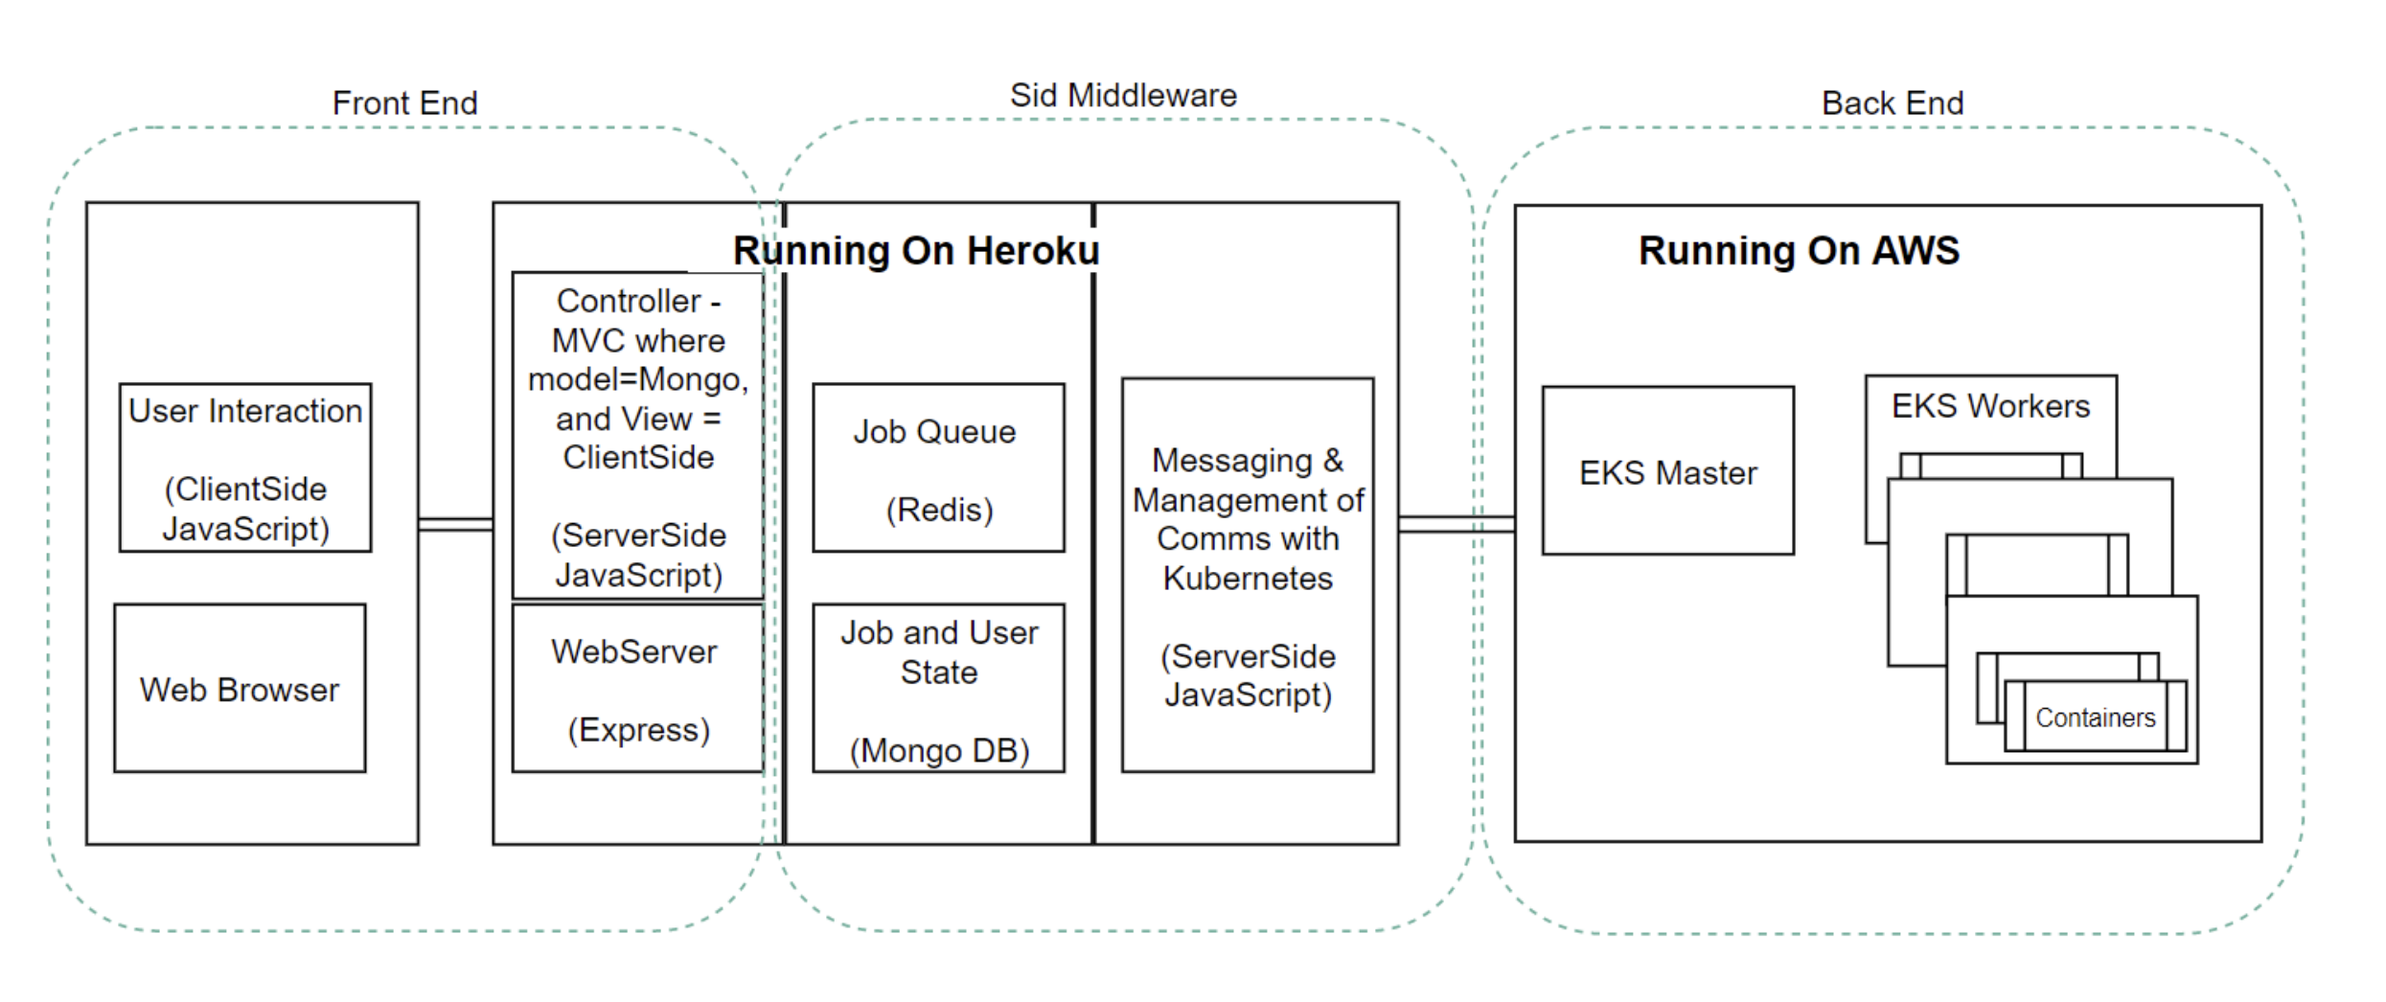
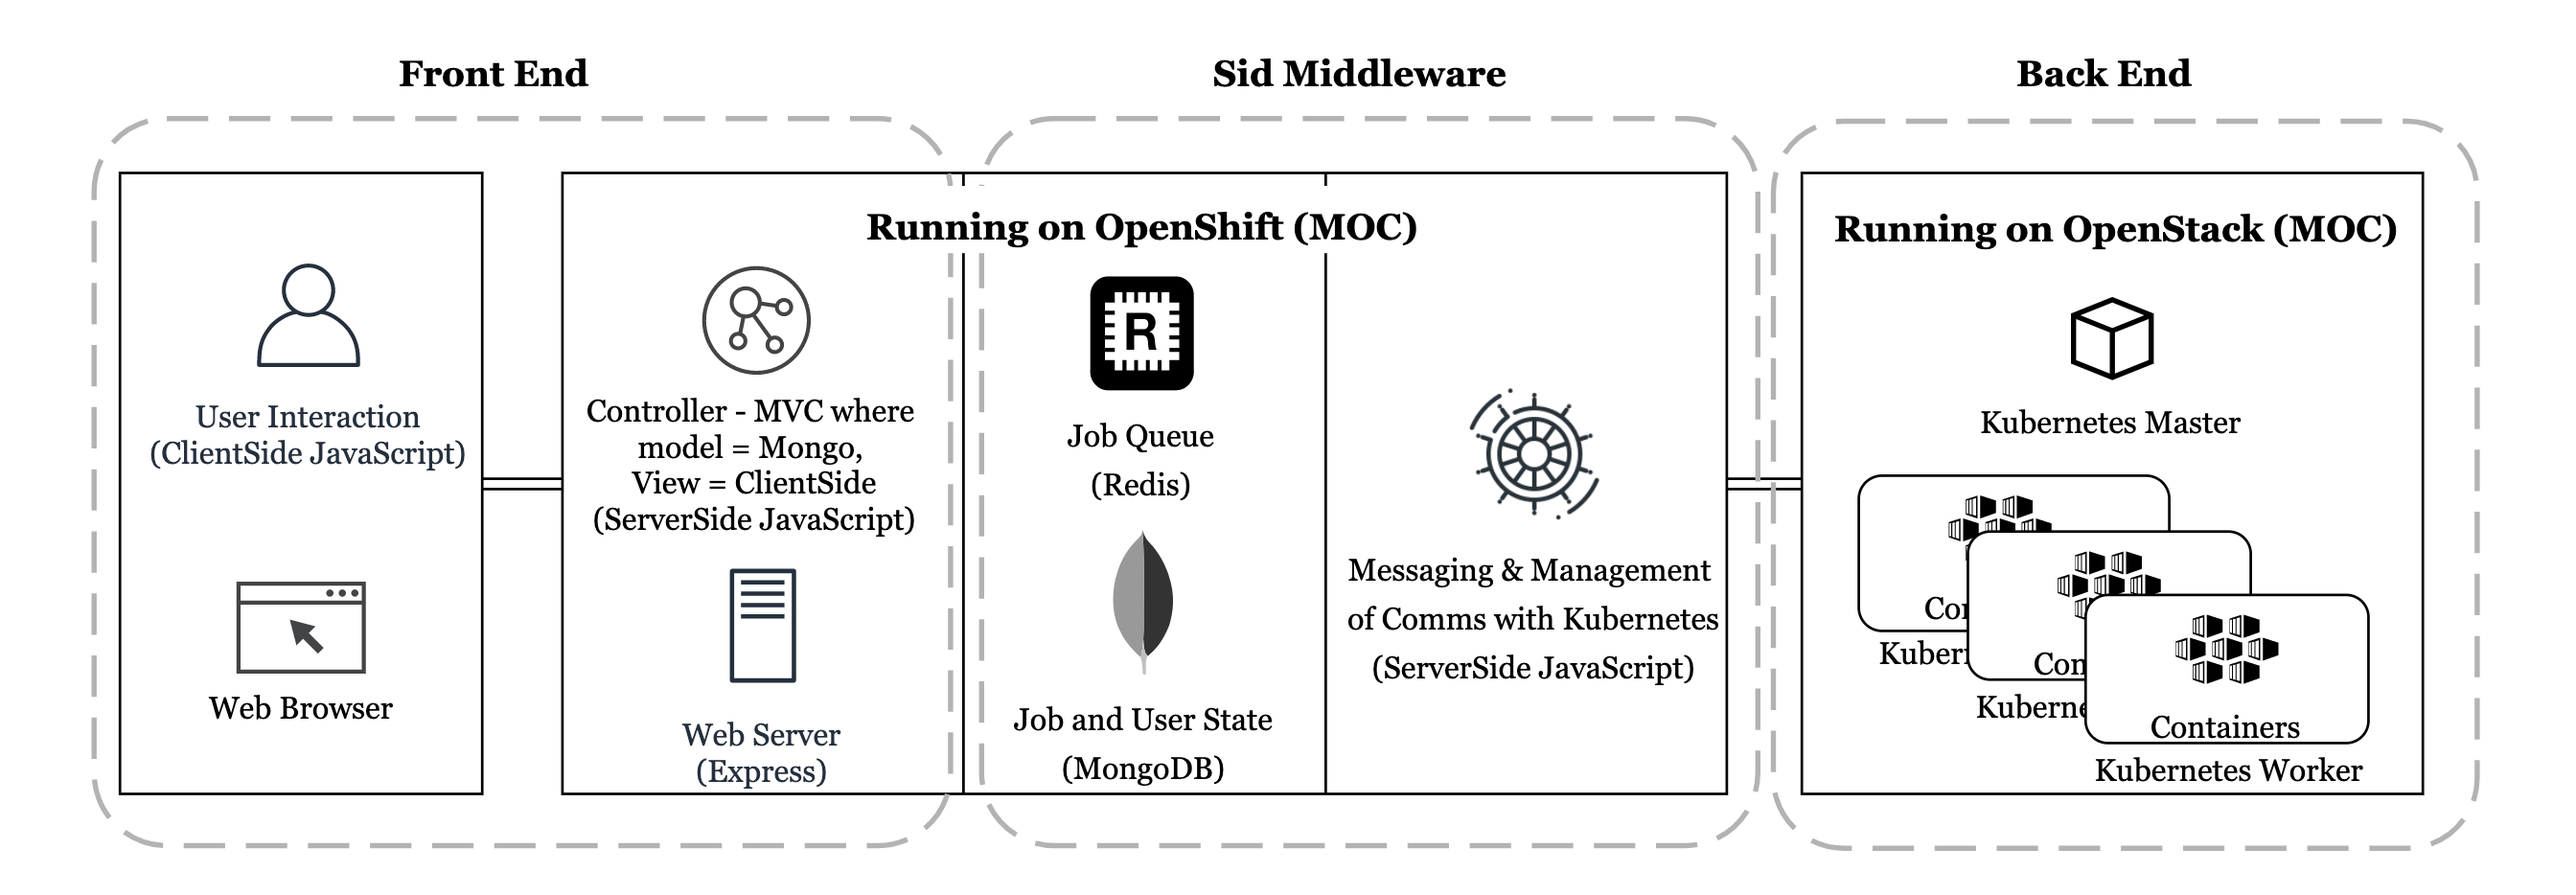
Redraw diagrams

diff --git a/README.md b/README.md
@@ -53,8 +53,6 @@ This section provides a high-level architecture or a conceptual diagram showing 
 -->
 
 
-> Note that figures in this section come from the design documenation of Sid team.
-
 The architecture of the current work is shown as below:
 
 
